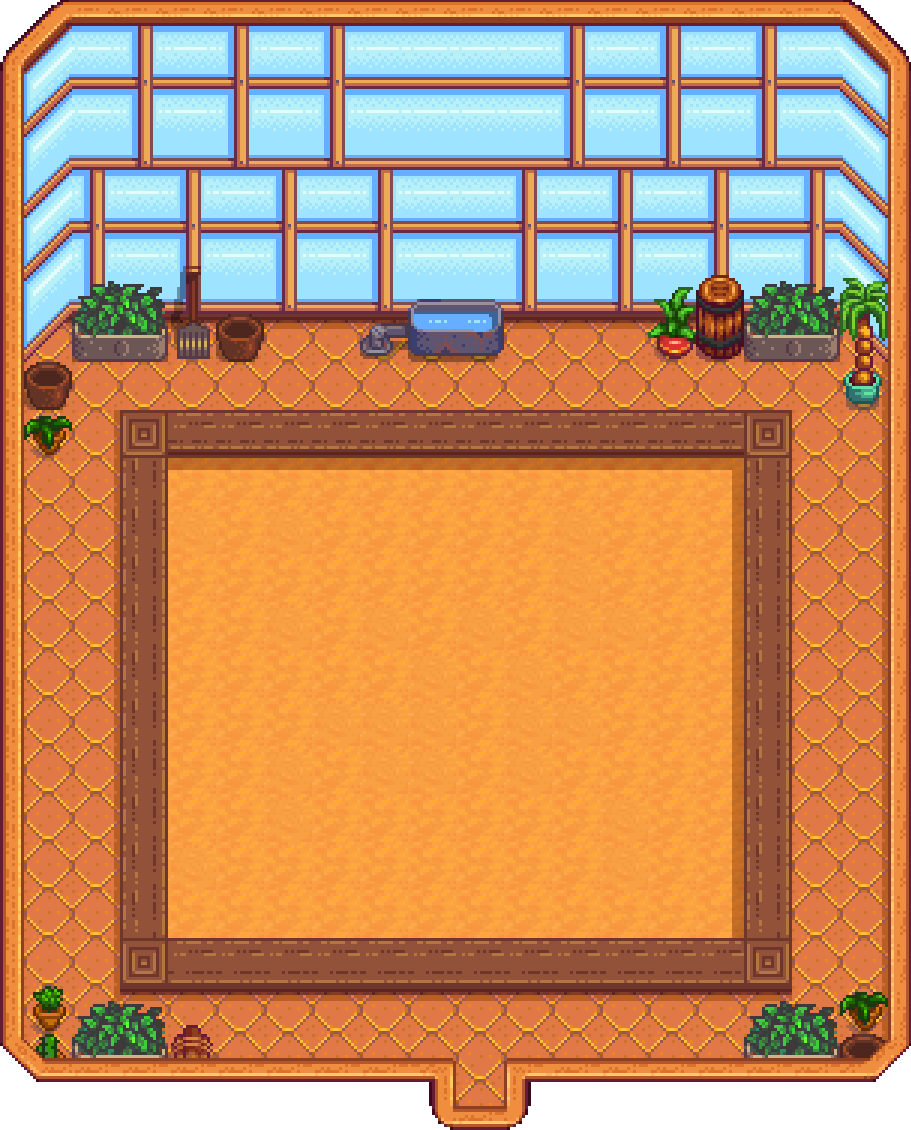
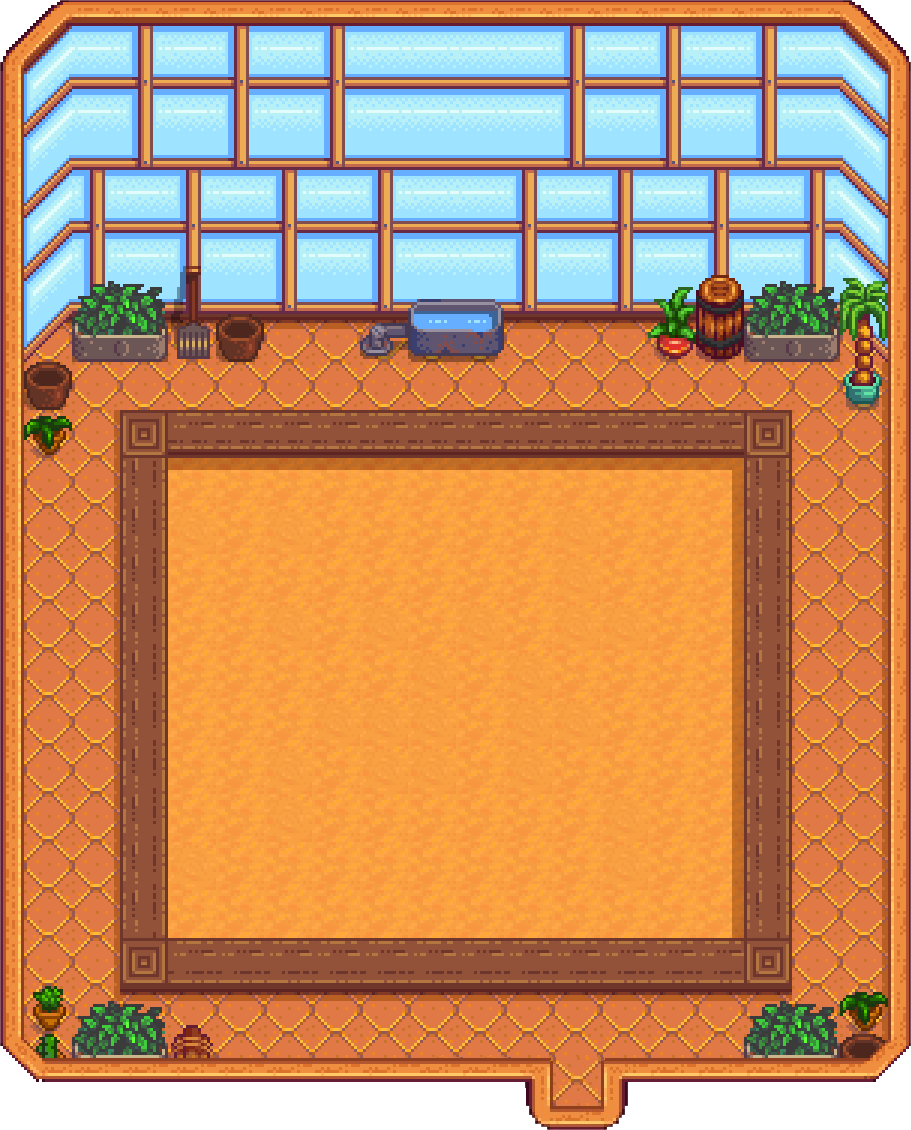
Map

Changed region(s): [[0.461, 0.9292, 0.7069, 1.0]]

diff --git a/core/src/main/java/com/CEliconValley/client/view/screen/GreenHouseScreen.java b/core/src/main/java/com/CEliconValley/client/view/screen/GreenHouseScreen.java
@@ -3,6 +3,7 @@ package com.CEliconValley.client.view.screen;
 import com.CEliconValley.models.*;
 import com.CEliconValley.models.buildings.Door;
 import com.CEliconValley.client.view.screen.maps.GreenhouseMap;
+import com.CEliconValley.models.buildings.GreenHouse.Greenhouse;
 import com.badlogic.gdx.Gdx;
 import com.badlogic.gdx.Screen;
 import com.badlogic.gdx.graphics.GL20;
@@ -65,6 +66,7 @@ public class GreenHouseScreen extends GameScreen implements Screen {
 
         camera = new OrthographicCamera();
         camera.setToOrtho(false, Gdx.graphics.getWidth(), Gdx.graphics.getHeight());
+        camera.zoom /= 2;
     }
 
     @Override
@@ -85,11 +87,11 @@ public class GreenHouseScreen extends GameScreen implements Screen {
         batch.begin();
 
 
-        batch.draw(background, CELL_SIZE/2f, CELL_SIZE/2f,CELL_SIZE*19,CELL_SIZE*24);
+        batch.draw(background, CELL_SIZE/2f, CELL_SIZE/2f,CELL_SIZE* Greenhouse.getGreenhouseLength(),CELL_SIZE*Greenhouse.getGreenhouseHeight());
 
         if (hero.currentAnimation != null) {
             TextureRegion currentFrame = hero.currentAnimation.getKeyFrame(hero.stateTime, onRepeat);
-            batch.draw(currentFrame, hero.renderX - CELL_SIZE / 2f, hero.renderY - CELL_SIZE / 2f, CELL_SIZE * 2f, CELL_SIZE * 2f);
+            batch.draw(currentFrame, hero.renderX - CELL_SIZE / 2f, hero.renderY - CELL_SIZE / 2f, CELL_SIZE, CELL_SIZE);
         }
         camera.position.set(hero.renderX + CELL_SIZE / 2f, hero.renderY + CELL_SIZE / 2f, 0);
         camera.update();

diff --git a/core/src/main/java/com/CEliconValley/client/view/screen/maps/GreenhouseMap.java b/core/src/main/java/com/CEliconValley/client/view/screen/maps/GreenhouseMap.java
@@ -6,6 +6,7 @@ import com.CEliconValley.common.FarmData;
 import com.CEliconValley.models.Cell;
 import com.CEliconValley.models.Finder;
 import com.CEliconValley.models.buildings.Door;
+import com.CEliconValley.models.buildings.GreenHouse.Greenhouse;
 import com.CEliconValley.models.foragings.Nature.Grass;
 import com.CEliconValley.models.locations.Location;
 import dev.morphia.annotations.Transient;
@@ -26,15 +27,15 @@ import java.util.ArrayList;
                 AppClient.getUserData().getUsername());
             System.out.println("gx "+farmData.getGreenhouseX());
             System.out.println("gy "+farmData.getGreenhouseY());
-            for (int i = 1; i < 19; i++) {
-                for (int j = 2; j < 17; j++) {
+            for (int i = 1; i < Greenhouse.getGreenhouseHeight(); i++) {
+                for (int j = 1; j < Greenhouse.getGreenhouseLength() + 1; j++) {
                     Grass grass = new Grass();
                     Cell cell = new Cell(grass, offsetY + i, offsetX + j);
                     cells.add(cell);
                 }
             }
             Door door = new Door();
-            cells.add(new Cell(door,offsetX+10,offsetY+1));
+            cells.add(new Cell(door,offsetX + Greenhouse.getGreenhouseLength() / 2 + 1,offsetY + 2));
         }
 
         public ArrayList<Cell> getCells() {

diff --git a/core/src/main/java/com/CEliconValley/client/view/screen/Playeracts.java b/core/src/main/java/com/CEliconValley/client/view/screen/Playeracts.java
@@ -163,6 +163,10 @@ public class Playeracts {
 
             float moveAmount = (float) CELL_SIZE / 8;
 
+            if(screen instanceof GreenHouseScreen){
+                moveAmount /= 2;
+            }
+
             hero.renderX = approach(hero.renderX, targetPixelX, moveAmount);
             hero.renderY = approach(hero.renderY, targetPixelY, moveAmount);
 

diff --git a/core/src/main/java/com/CEliconValley/models/foragings/Nature/Rock.java b/core/src/main/java/com/CEliconValley/models/foragings/Nature/Rock.java
@@ -47,8 +47,7 @@ public class Rock implements Nature, Obstacle {
     public Rock(int x, int y, Farm farm) {
         anchorX = x;
         anchorY = y;
-        Random rand = new Random();
-        if(y >= 40){
+        if(y <= 30){
             rockType = RockType.BigRock;
             hitPoints = 3;
             this.variant = (int)(Math.random() * 5);

diff --git a/core/src/main/java/com/CEliconValley/models/buildings/GreenHouse/Greenhouse.java b/core/src/main/java/com/CEliconValley/models/buildings/GreenHouse/Greenhouse.java
@@ -141,4 +141,5 @@ public class Greenhouse implements Building {
     }
 
     public static int getGreenhouseLength() {return 6;}
+    public static int getGreenhouseHeight() {return 7;}
 }
